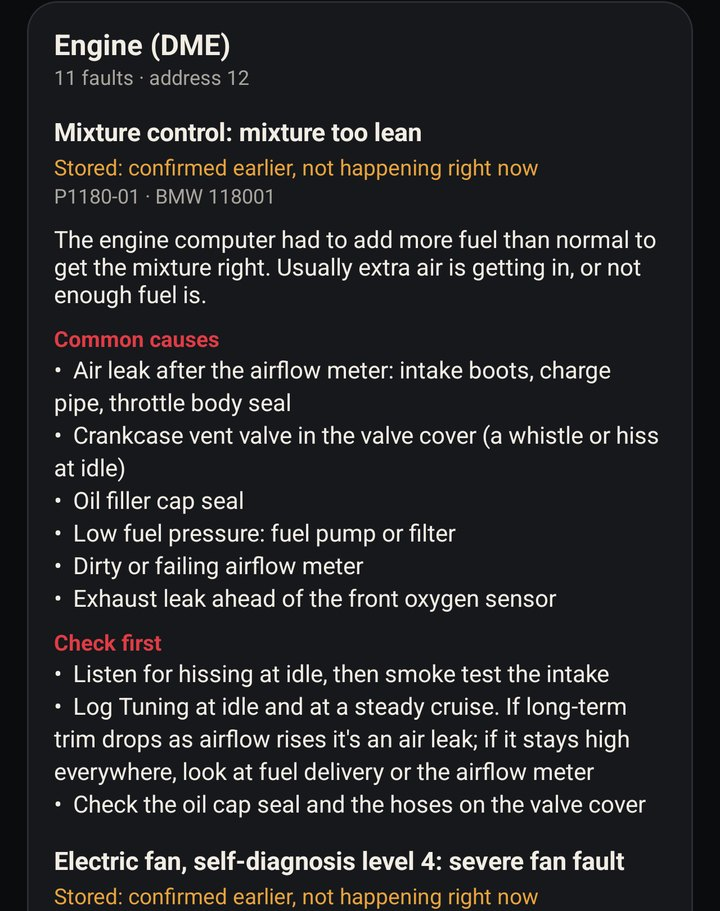
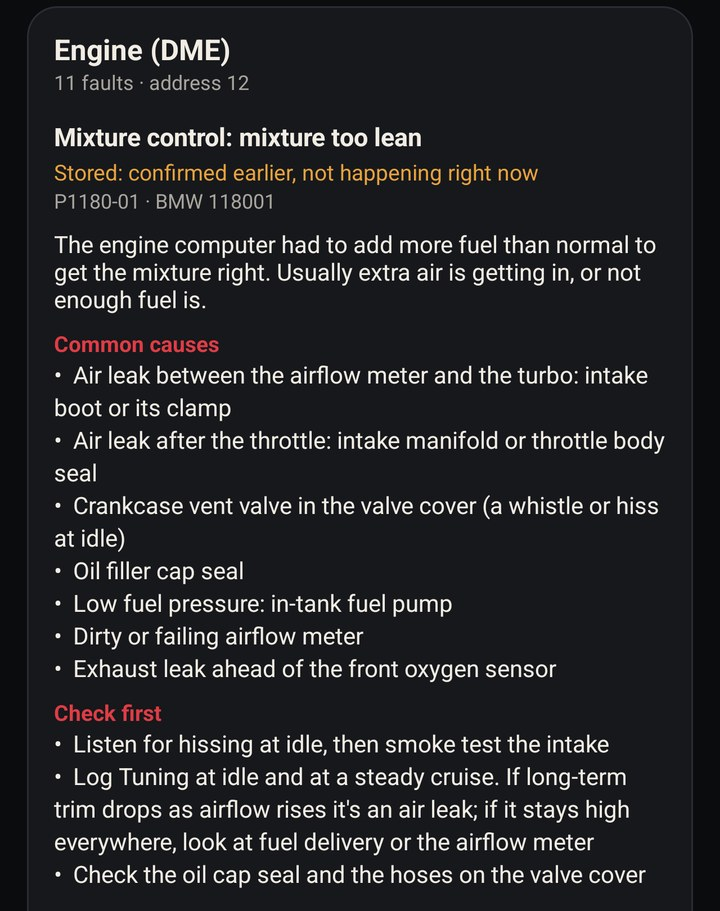
F5X Code: Quick codings and the new fault advice
Adds Quick codings to Coding and more, with the list and the True speed
review side by side, and mentions one-tap codings in the Code tile.
Reshoots faults.jpg for build 92's lean-mixture advice. All three shots
are from the car's own backups and replay, VIN replaced.

Claude-Session: https://claude.ai/code/session_01SpDi9hKBEyGSxX9EC2Ngrd

Changed region(s): [[0.0611, 0.3688, 0.9167, 1.0], [0.0611, 0.0307, 0.9167, 0.3381]]

diff --git a/_includes/f5xcode-feature.html b/_includes/f5xcode-feature.html
@@ -96,7 +96,7 @@
 <div class="grid3">
   <div class="tile"><span class="tag">Diagnose</span><b>Fault codes in plain English</b><p>Every module's faults, each with whether it's happening now or stored, whether it lights the dash, what it means and what to check first. Check all fault codes reads every module in one pass. Clear them one module at a time.</p></div>
   <div class="tile"><span class="tag">Log</span><b>Engine and gearbox logging</b><p>Seven presets for boost and spark, misfires, fuel trims, a cold start and the six-speed automatic. Tap Start logging, drive, and the log opens on graphs made for that job. <a href="#logging">What it logs</a>.</p></div>
-  <div class="tile"><span class="tag">Code</span><b>Module coding</b><p>Back up and change the settings inside eleven modules, every one by name. Each save checks the module, writes, then reads it back to prove it landed. <a href="#coding">Coding and more</a>.</p></div>
+  <div class="tile"><span class="tag">Code</span><b>Module coding</b><p>Back up and change the settings inside eleven modules, every one by name, with the usual changes like true speed as one tap. Each save checks the module, writes, then reads it back to prove it landed. <a href="#coding">Coding and more</a>.</p></div>
 </div>
 
 <div class="shots">
@@ -212,6 +212,20 @@
 </div>
 </div>
 
+<h3>Quick codings</h3>
+<p>The usual changes as one-tap buttons, each one shown on or off from your latest backup. A tap opens the module's review: it backs the module up, shows what will change, asks before writing, then reads it back. Turn off puts the setting back.</p>
+<ul class="tight">
+  <li><b>Instrument cluster:</b> true speed, digital speed readout, chime in reverse, auto start/stop status.</li>
+  <li><b>Body module:</b> auto start/stop remembers its setting, or starts every drive off; radio stays on when the door opens; hazards flash under hard braking.</li>
+  <li><b>Head unit:</b> skip the legal notices, tyre pressures and temperatures.</li>
+</ul>
+<p>True speed takes the speedometer's built-in over-read out of the digital readout. The needle keeps its lead. Each quick coding is tied to the exact coding file it was built from, so on a module running other software the app says it doesn't apply and leaves it alone. The app also says which ones haven't been tried on a car yet.</p>
+
+<div class="shots two">
+  <figure><img src="/assets/images/f5xcode/v2/quick-codings.jpg" alt="Quick codings for the instrument cluster: True speed off with Turn on, Digital speed readout on with Turn off, Chime in reverse off with Turn on" loading="lazy"><figcaption>Quick codings, each shown on or off from the last backup</figcaption></figure>
+  <figure><img src="/assets/images/f5xcode/v2/true-speed.jpg" alt="Review change for the cluster: True speed, Turn on, with the original backup ready and the change explained before Save to car" loading="lazy"><figcaption>True speed, reviewed before anything is written</figcaption></figure>
+</div>
+
 <div class="grid3">
   <div class="tile"><b>Fault codes in plain English</b><p>Every module's faults, each with whether it's happening now or stored, whether it lights the dash, what it means, the likely causes and what to check first. Check all fault codes reads every module in one pass, so a check engine light can't hide in a module you didn't pick. Clear them one module at a time.</p></div>
   <div class="tile"><b>Read and back up coding</b><p>Every setting in a module by name, in Popular, All and Expert views. A backup is saved before anything changes, and backups export and import between phones.</p></div>
@@ -243,7 +257,7 @@
   </div>
 </div>
 
-<p class="note">Screenshots are the app on this F56's own data: its fault scan, oil level reads, a drive log and a body module backup, played back from the car's recorded replies with the VIN hidden.</p>
+<p class="note">Screenshots are the app on this F56's own data: its fault scan, oil level reads, a drive log and its module backups, played back from the car's recorded replies with the VIN hidden.</p>
 
 <p class="note">No account, no ads, no analytics. Everything stays on your phone unless you send a report. <a href="/f5xcode/privacy/">Privacy policy</a>.</p>
 

diff --git a/_posts/F5X-CODE-POST-ORDER.md b/_posts/F5X-CODE-POST-ORDER.md
@@ -27,8 +27,10 @@ old order put the seven logging presets ahead of the price and hardware.)
    Expert, seeing an option doesn't mean the car takes it.
 7. **What it logs**: the seven presets from `LogPresets.kt` as tiles, the
    graph notes beside the preset picker screenshot.
-8. **Coding and more**: oil level row with its screenshot, the coding tiles,
-   then the eleven modules and the option-size note.
+8. **Coding and more**: oil level row with its screenshot, Quick codings (by
+   module, from `CodingPresets.kt`) with the list and True speed review
+   screenshots side by side, the coding tiles, then the eleven modules and
+   the option-size note.
 9. **Get it**: closed testing, three steps (group, opt-in, install). Switch to
    one Play button when it goes to production.
 10. Screenshot note, privacy line and the independent-app note.
@@ -36,8 +38,9 @@ old order put the seven logging presets ahead of the price and hardware.)
 ## Standing rules
 
 - Present tense, current build only. No "coming soon".
-- Presets and modules must match the app: `LogPresets.kt` (7 presets) and
-  `ModuleSigningProfiles.kt` (11 modules) in the F56coding repo.
+- Presets and modules must match the app: `LogPresets.kt` (7 presets),
+  `ModuleSigningProfiles.kt` (11 modules) and `CodingPresets.kt` (the quick
+  codings: 4 cluster, 4 body, 2 head unit) in the F56coding repo.
 - The price is set in Play Console; the page says $45 (Matt, 2026-10-17).
 - Connection labels match the app's chooser: ENET cable / USB-C, MHD Wi-Fi /
   ENET, OBDLink CX / Bluetooth LE, Paired Bluetooth adapter.
@@ -50,3 +53,12 @@ all fault codes run and the 10-11 oil level reads, played back with the debug
 `ReplayTransport` (`--es cmd connect --es adapter replay --es file <log>`),
 which swaps the VIN for a placeholder; the 10-11 Tuning drive log; and the BDC
 backup with its VIN replaced. Shot on the Pixel_10_Pro AVD. No VIN on screen.
+
+`quick-codings.jpg` is the 10-09 cluster, head unit and BDC reads from
+`F56coding-backups`, VIN swapped for `WMW00000000000000` everywhere in the file
+(not just the VIN line: the Sources line has it too), pushed into the app's
+`files/backups` with `run-as` and dated 10-09, then `--es cmd quick`;
+`true-speed.jpg` is `--es cmd quick --es review true_speed`. Wake the
+AVD first (`input keyevent KEYCODE_WAKEUP`): a sleeping display screencaps as
+solid black. `faults.jpg` is the replayed Check all run, scrolled so the
+Engine card is on top, cropped to 720 x 911 to match the other two.
